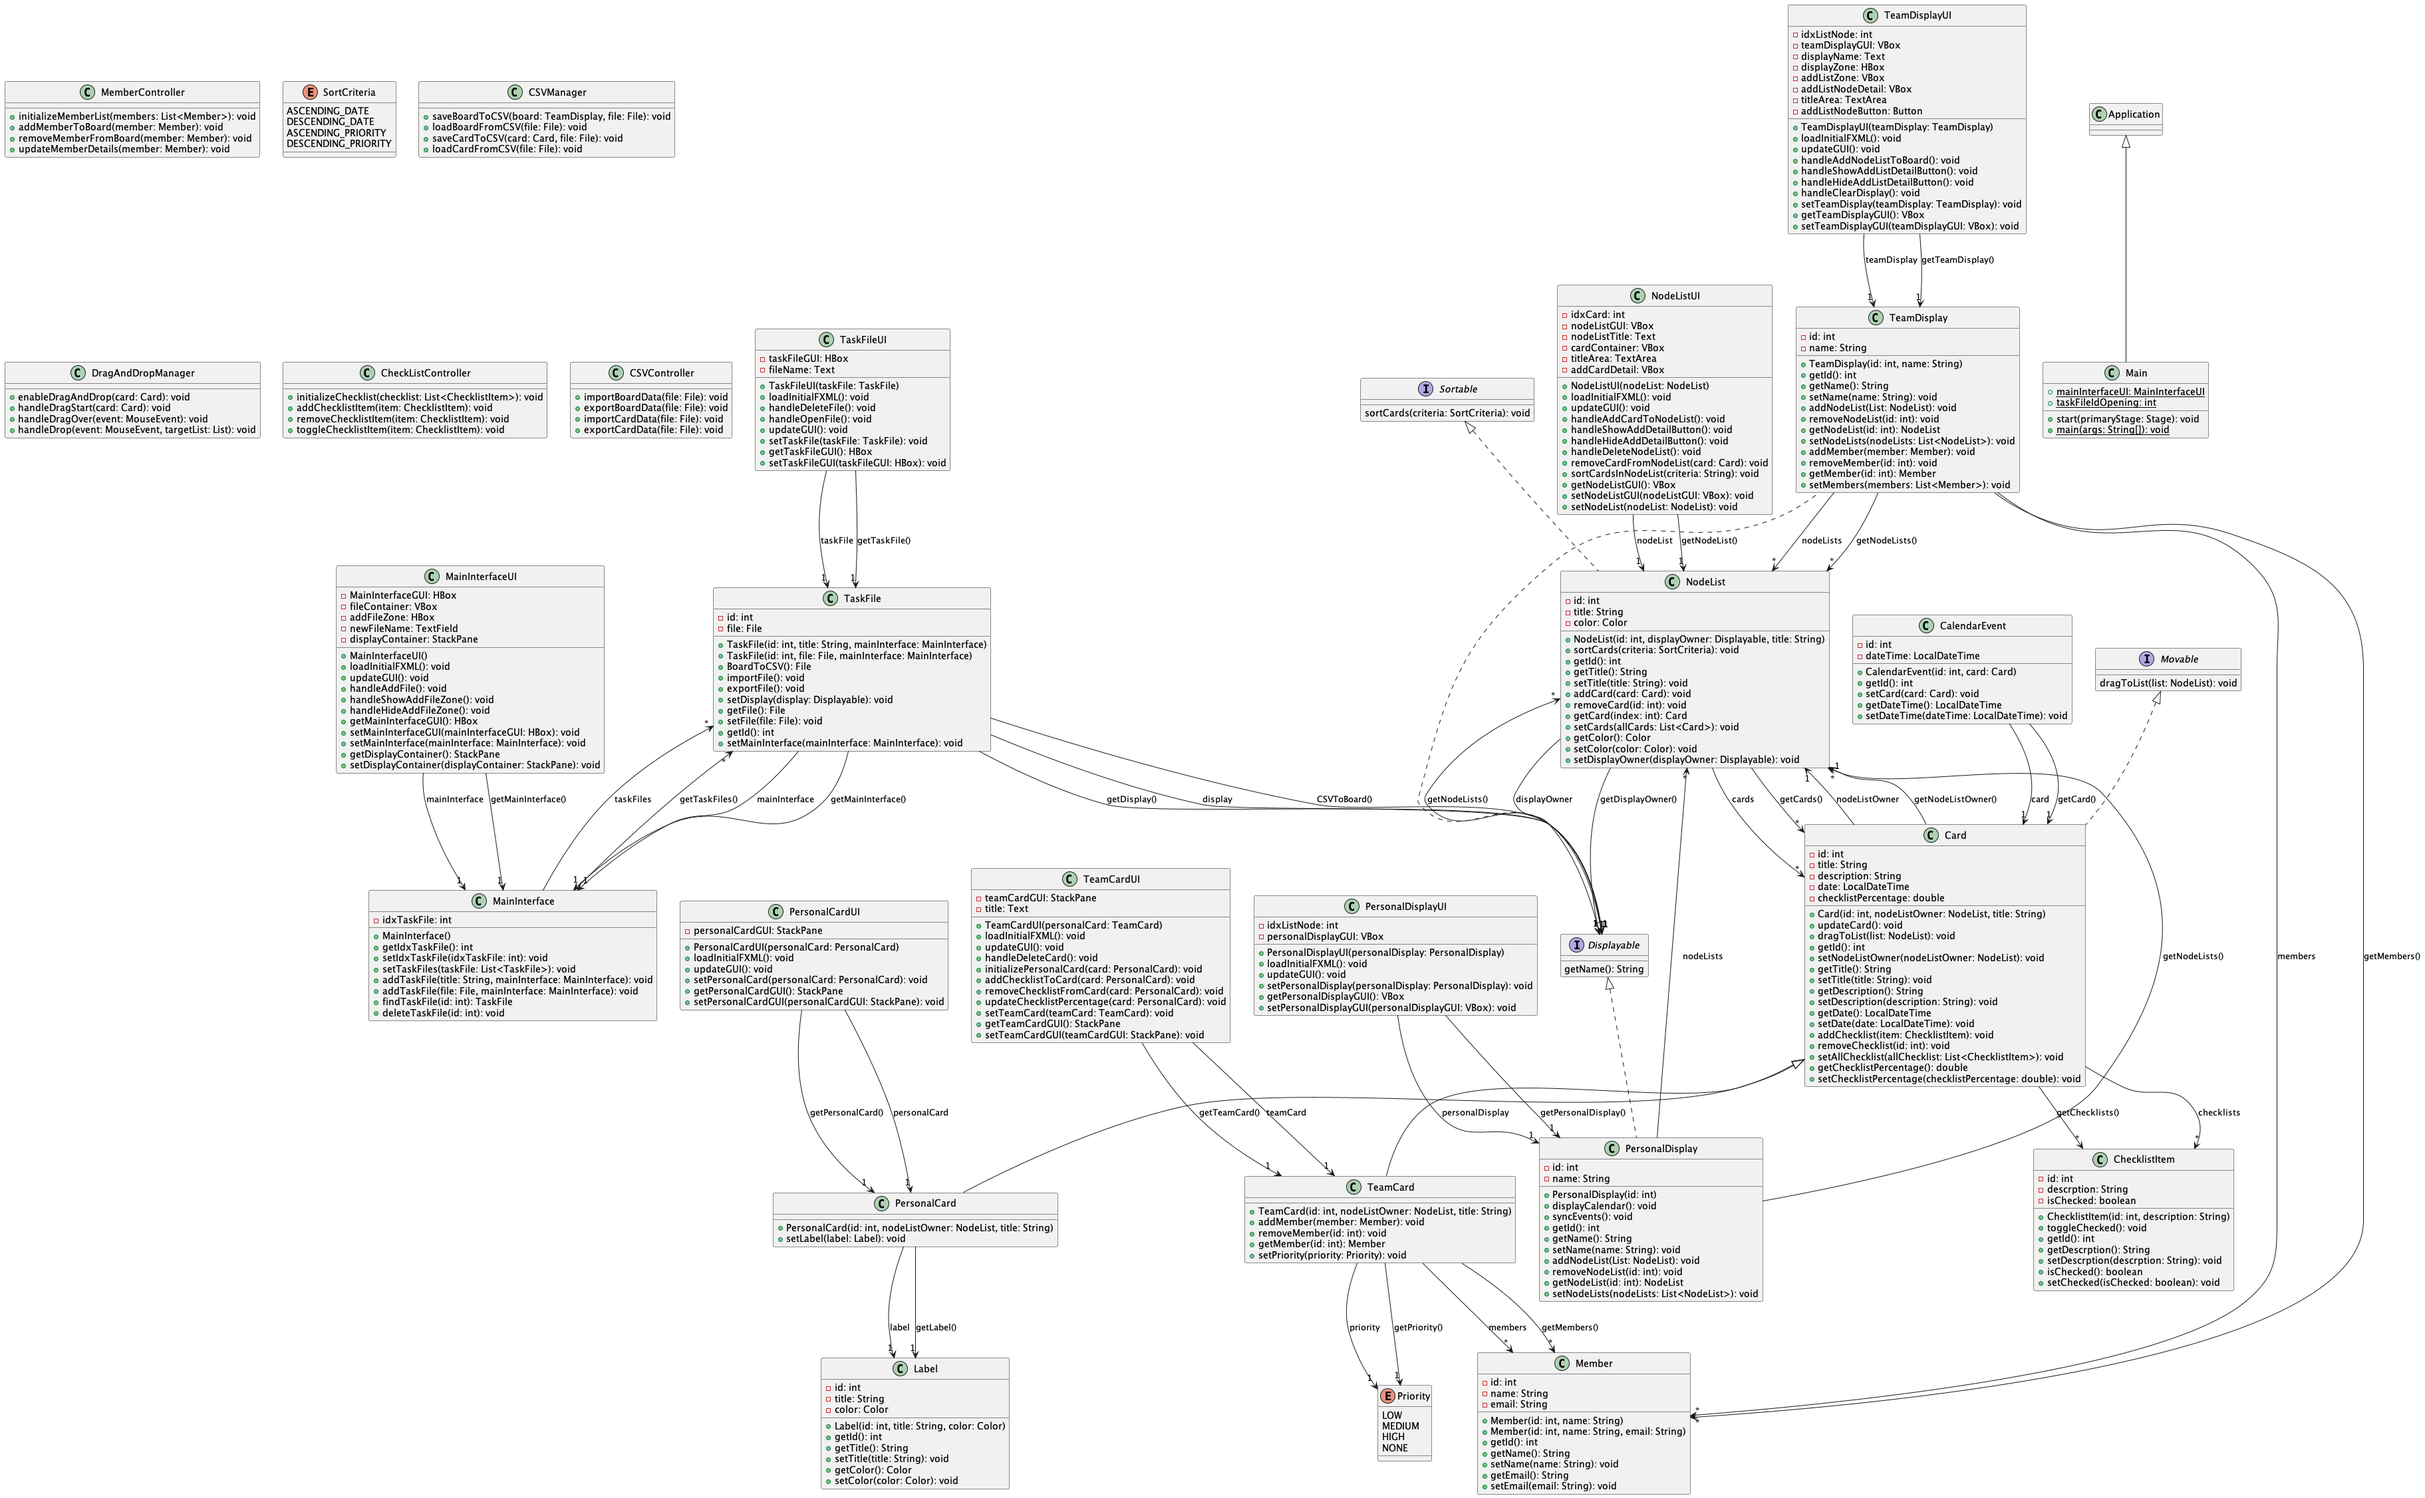
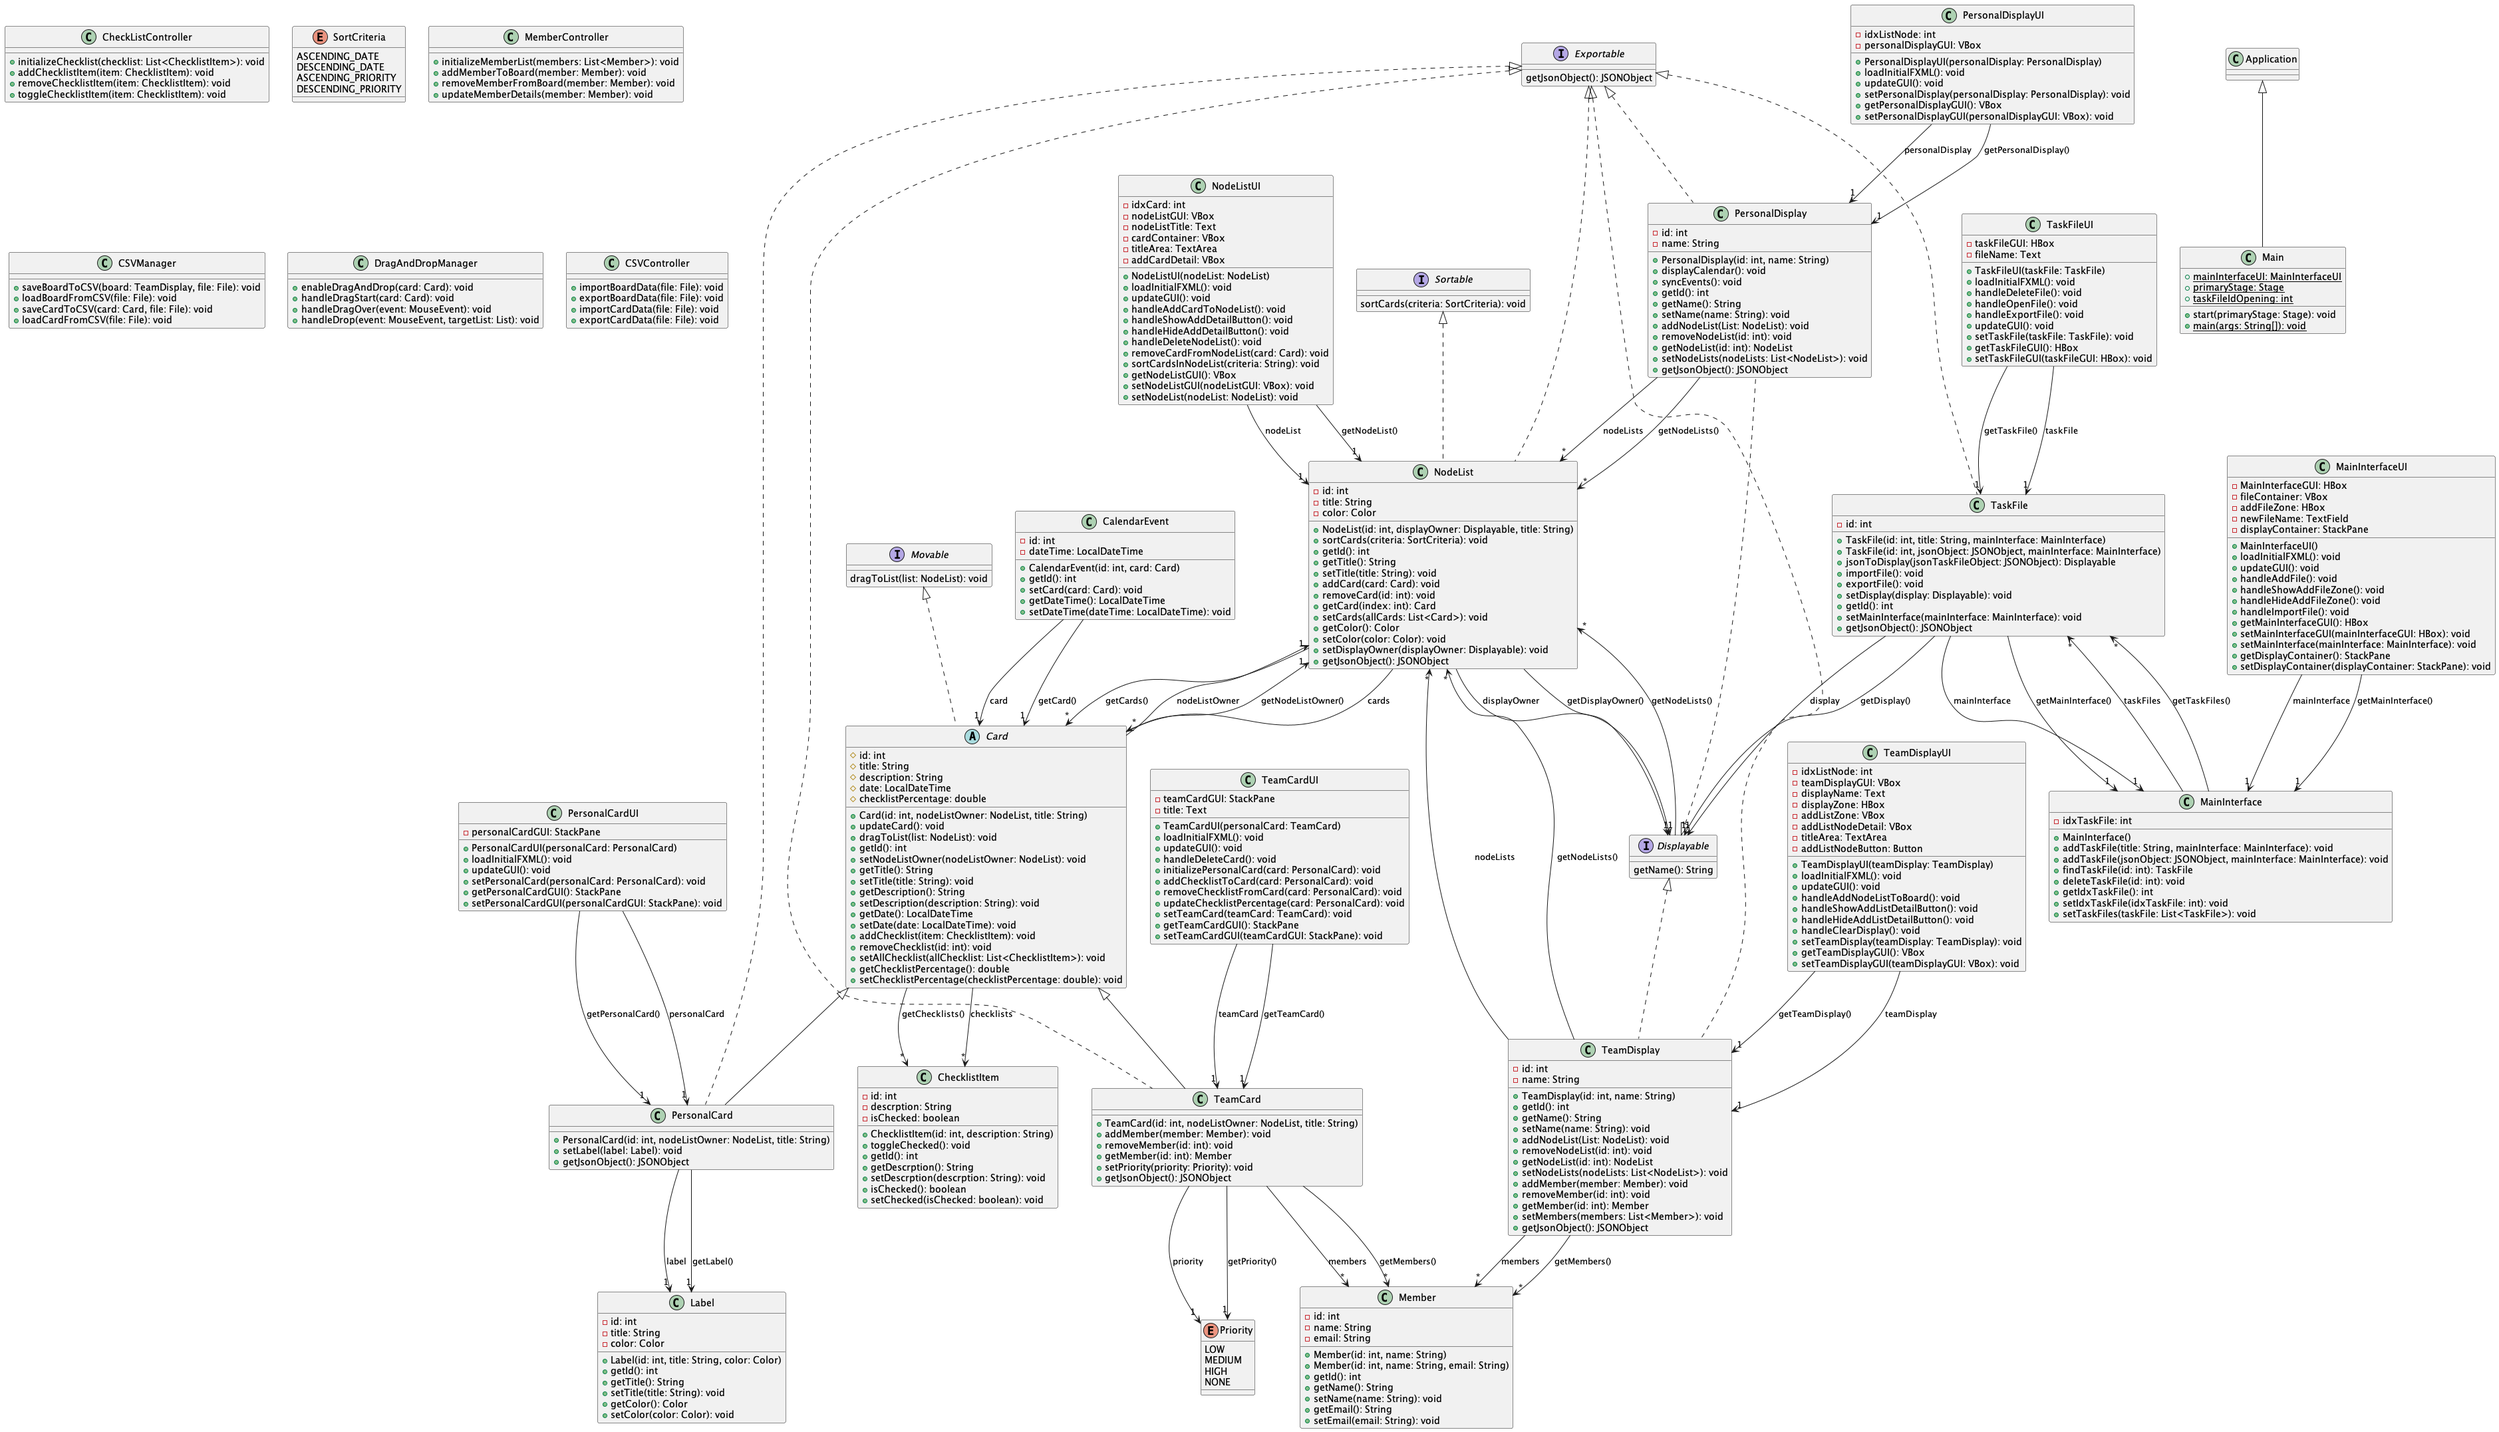
intrgrate personal and team taskfile

diff --git a/src/controllers/MainInterfaceUI.java b/src/controllers/MainInterfaceUI.java
@@ -9,9 +9,11 @@ import org.json.JSONException;
 import org.json.JSONObject;
 
 import app.Main;
+import enums.FileType;
 import javafx.fxml.FXML;
 import javafx.fxml.FXMLLoader;
 import javafx.scene.Node;
+import javafx.scene.control.ComboBox;
 import javafx.scene.control.TextField;
 import javafx.scene.layout.HBox;
 import javafx.scene.layout.StackPane;
@@ -28,6 +30,7 @@ public class MainInterfaceUI {
 	@FXML private HBox MainInterfaceGUI;
 	@FXML private VBox fileContainer;
 	@FXML private HBox addFileZone;
+	@FXML private ComboBox<String> fileType;
 	@FXML private TextField newFileName;
 	@FXML private StackPane displayContainer;
 
@@ -35,6 +38,7 @@ public class MainInterfaceUI {
 		setMainInterface(new MainInterface());
 		loadInitialFXML();
 		handleHideAddFileZone();
+		fileType.getItems().addAll("Personal","Team");
 	}
 
 	public void loadInitialFXML(){
@@ -58,7 +62,7 @@ public class MainInterfaceUI {
 			displayContainer.getChildren().clear();
 			TaskFile taskFile = mainInterface.findTaskFile(Main.taskFileIdOpening);
 			if (taskFile != null) {
-				if (taskFile.getDisplay() instanceof TeamDisplayUI) {
+				if (taskFile.getDisplay() instanceof TeamDisplay) {
 					TeamDisplayUI teamDisplayUI = new TeamDisplayUI((TeamDisplay) taskFile.getDisplay());
 					teamDisplayUI.updateGUI();
 					displayContainer.getChildren().add(teamDisplayUI.getTeamDisplayGUI());
@@ -73,7 +77,12 @@ public class MainInterfaceUI {
 
 	@FXML
 	public void handleAddFile() {
-		mainInterface.addTaskFile(newFileName.getText(), mainInterface);
+		if (fileType.getValue().equals("Personal")) {
+			mainInterface.addTaskFile(newFileName.getText(),FileType.Personal, mainInterface);
+		} else if (fileType.getValue().equals("Team")) {
+			mainInterface.addTaskFile(newFileName.getText(),FileType.Team, mainInterface);
+		}
+		fileType.setValue(null);
 		handleHideAddFileZone();
 		updateGUI();
 	}
@@ -93,7 +102,7 @@ public class MainInterfaceUI {
 
 	@FXML
 	public void handleImportFile() {
-		System.out.println("Click");
+		handleHideAddFileZone();
 		FileChooser fileChooser = new FileChooser();
         fileChooser.setTitle("Select a File");
         fileChooser.getExtensionFilters().add(new FileChooser.ExtensionFilter("JSON Files", "*.json"));

diff --git a/src/models/TeamDisplay.java b/src/models/TeamDisplay.java
@@ -10,6 +10,7 @@ import interfaces.Exportable;
 
 public class TeamDisplay implements Displayable,Exportable{
     private int id;
+    private int idxListNode;
     private String name;
     private List<NodeList> nodeLists;
     private List<Member> members; // Member in members can be selected in Card in NodeList
@@ -17,6 +18,7 @@ public class TeamDisplay implements Displayable,Exportable{
     public TeamDisplay(int id, String name) {
     	this.id = id;
     	setName(name);
+    	setIdxListNode(0);
     	setNodeLists(new ArrayList<>());
     	setMembers(new ArrayList<>());
     }
@@ -39,6 +41,7 @@ public class TeamDisplay implements Displayable,Exportable{
     // NodeLists
     public void addNodeList(NodeList List) {
     	nodeLists.add(List);
+    	setIdxListNode(List.getId() + 1);
     }
 
     public void removeNodeList(int id) {
@@ -99,6 +102,14 @@ public class TeamDisplay implements Displayable,Exportable{
 		this.members = members;
 	}
 
+	public int getIdxListNode() {
+		return idxListNode;
+	}
+
+	public void setIdxListNode(int idxListNode) {
+		this.idxListNode = idxListNode;
+	}
+	
 	@Override
 	public JSONObject getJsonObject() {
 		JSONObject teamDisplayJsonObject = new JSONObject();

diff --git a/src/controllers/NodeListUI.java b/src/controllers/NodeListUI.java
@@ -1,6 +1,7 @@
 package controllers;
 
 import java.io.IOException;
+import java.util.ListResourceBundle;
 
 import app.Main;
 import javafx.fxml.FXML;
@@ -15,7 +16,6 @@ import models.TeamCard;
 
 public class NodeListUI{
 	private NodeList nodeList;
-	private int idxCard = 0;
 
 	@FXML private VBox nodeListGUI;
 	@FXML private Text nodeListTitle;
@@ -58,8 +58,7 @@ public class NodeListUI{
     @FXML
     public void handleAddCardToNodeList(){
     	// TODO for TeamCard
-    	nodeList.addCard(new TeamCard(idxCard, nodeList, titleArea.getText()));
-    	idxCard++;
+    	nodeList.addCard(new TeamCard(nodeList.getIdxCard(), nodeList, titleArea.getText()));
     	titleArea.setText("");
     	handleHideAddDetailButton();
     	updateGUI();
@@ -80,6 +79,10 @@ public class NodeListUI{
 
     @FXML
     public void handleDeleteNodeList() {
+    	System.out.println("run");
+    	for (NodeList list :nodeList.getDisplayOwner().getNodeLists()) {
+    		System.out.println(list.getId());
+    	}
     	for (NodeList list :nodeList.getDisplayOwner().getNodeLists()) {
     		if (list.getId() == nodeList.getId()) {
     			nodeList.getDisplayOwner().getNodeLists().remove(list);

diff --git a/src/models/NodeList.java b/src/models/NodeList.java
@@ -15,6 +15,7 @@ import javafx.scene.paint.Color;
 public class NodeList implements Sortable,Exportable{
     private int id;
     private Displayable displayOwner;
+    private int idxCard;
     private String title;
     private List<Card> cards;
     private Color color = Color.GRAY;
@@ -22,6 +23,7 @@ public class NodeList implements Sortable,Exportable{
     public NodeList(int id, Displayable displayOwner, String title) {
     	this.id = id;
     	setTitle(title);
+    	setIdxCard(0);
     	setDisplayOwner(displayOwner);
     	setCards(new ArrayList<>());
     }
@@ -58,6 +60,7 @@ public class NodeList implements Sortable,Exportable{
     // Cards
     public void addCard(Card card) {
     	cards.add(card);
+    	setIdxCard(card.getId() + 1);
     }
 
     public void removeCard(int id) {
@@ -97,6 +100,14 @@ public class NodeList implements Sortable,Exportable{
 
 	public void setDisplayOwner(Displayable displayOwner) {
 		this.displayOwner = displayOwner;
+	}
+
+	public int getIdxCard() {
+		return idxCard;
+	}
+
+	public void setIdxCard(int idxCard) {
+		this.idxCard = idxCard;
 	}
 
 	@Override

diff --git a/src/models/TaskFile.java b/src/models/TaskFile.java
@@ -5,6 +5,7 @@ import java.io.File;
 import org.json.JSONArray;
 import org.json.JSONObject;
 
+import enums.FileType;
 import interfaces.Displayable;
 import interfaces.Exportable;
 
@@ -13,11 +14,14 @@ public class TaskFile implements Exportable{
 	private MainInterface mainInterface;
 	private Displayable display;
 
-	public TaskFile(int id, String title, MainInterface mainInterface) {
+	public TaskFile(int id, String title, FileType fileType, MainInterface mainInterface) {
 		this.id = id;
 		setMainInterface(mainInterface);
-		// TODO for PersonalDisplay
-		setDisplay(new TeamDisplay(id, title));
+		if (fileType == FileType.Personal) {
+			setDisplay(new PersonalDisplay(id, title));
+		} else if (fileType == FileType.Team) {
+			setDisplay(new TeamDisplay(id, title));
+		}
 	}
 
 	public TaskFile(int id, JSONObject jsonObject, MainInterface mainInterface) {
@@ -67,15 +71,6 @@ public class TaskFile implements Exportable{
 	    }
 
 	    return display;
-	}
-
-
-	public void importFile() {
-
-	}
-
-	public void exportFile() {
-
 	}
 
 	public Displayable getDisplay() {

diff --git a/src/controllers/TaskFileUI.java b/src/controllers/TaskFileUI.java
@@ -60,16 +60,13 @@ public class TaskFileUI {
 
 	@FXML
 	public void handleExportFile() {
-		System.out.println("Click");
 		FileChooser fileChooser = new FileChooser();
         fileChooser.setTitle("Select a destination");
         fileChooser.getExtensionFilters().add(new FileChooser.ExtensionFilter("JSON Files", "*.json"));
         File selectedFile = fileChooser.showSaveDialog(Main.primaryStage);
         if (selectedFile != null) {
         	try (FileWriter writer = new FileWriter(selectedFile)) {
-        		System.out.println(taskFile.getJsonObject().toString());
                 writer.write(taskFile.getJsonObject().toString(4)); // pretty print with indentation
-                System.out.println("JSON file saved to: " + selectedFile.getAbsolutePath());
             } catch (IOException e) {
                 e.printStackTrace();
             }

diff --git a/src/controllers/TeamDisplayUI.java b/src/controllers/TeamDisplayUI.java
@@ -16,7 +16,6 @@ import models.TeamDisplay;
 
 public class TeamDisplayUI{
 	private TeamDisplay teamDisplay;
-	private int idxListNode = 0;
 
 	@FXML private VBox teamDisplayGUI;
 	@FXML private Text displayName;
@@ -62,8 +61,7 @@ public class TeamDisplayUI{
 
     @FXML
     public void handleAddNodeListToBoard() {
-    	teamDisplay.addNodeList(new NodeList(idxListNode, teamDisplay, titleArea.getText()));
-    	idxListNode++;
+    	teamDisplay.addNodeList(new NodeList(teamDisplay.getIdxListNode(), teamDisplay, titleArea.getText()));
     	titleArea.setText("");
     	handleHideAddListDetailButton();
     	updateGUI();
@@ -88,6 +86,7 @@ public class TeamDisplayUI{
 
     @FXML
     public void handleClearDisplay() {
+    	Main.taskFileIdOpening = -1;
     	Main.mainInterfaceUI.getDisplayContainer().getChildren().clear();
     }
 

diff --git a/src/models/MainInterface.java b/src/models/MainInterface.java
@@ -1,10 +1,10 @@
 package models;
 
-import java.io.File;
 import java.util.ArrayList;
 import java.util.List;
-
 import org.json.JSONObject;
+
+import enums.FileType;
 
 
 public class MainInterface {
@@ -15,8 +15,8 @@ public class MainInterface {
 		setTaskFiles(new ArrayList<>());
 	}
 
-	public void addTaskFile(String title, MainInterface mainInterface) {
-		taskFiles.add(new TaskFile(idxTaskFile, title, mainInterface));
+	public void addTaskFile(String title,FileType fileType, MainInterface mainInterface) {
+		taskFiles.add(new TaskFile(idxTaskFile, title, fileType, mainInterface));
 		idxTaskFile++;
 	}
 

diff --git a/src/controllers/PersonalDisplayUI.java b/src/controllers/PersonalDisplayUI.java
@@ -1,6 +1,9 @@
 package controllers;
 
+import java.io.IOException;
+
 import javafx.fxml.FXML;
+import javafx.fxml.FXMLLoader;
 import javafx.scene.layout.VBox;
 import models.PersonalDisplay;
 
@@ -16,6 +19,13 @@ public class PersonalDisplayUI {
 	}
 
     public void loadInitialFXML(){
+    	try {
+    		FXMLLoader loader = new FXMLLoader(getClass().getResource("/PersonalDisplay.fxml"));
+            loader.setController(this);
+            setPersonalDisplayGUI(loader.load());
+		} catch (IOException e) {
+			e.printStackTrace();
+		}
     }
 
     public void updateGUI() {

diff --git a/src/models/Card.java b/src/models/Card.java
@@ -20,11 +20,6 @@ public abstract class Card implements Movable{
 		setTitle(title);
 	}
 
-	// Feature
-	public void updateCard() {
-
-	}
-
 	@Override
 	public void dragToList(NodeList list) {
 

diff --git a/src/app/Main.java b/src/app/Main.java
@@ -1,6 +1,5 @@
 package app;
 
-
 import controllers.MainInterfaceUI;
 import javafx.application.Application;
 import javafx.scene.Parent;

diff --git a/src/interfaces/Exportable.java b/src/interfaces/Exportable.java
@@ -3,6 +3,5 @@ package interfaces;
 import org.json.JSONObject;
 
 public interface Exportable {
-
 	JSONObject getJsonObject();
 }
